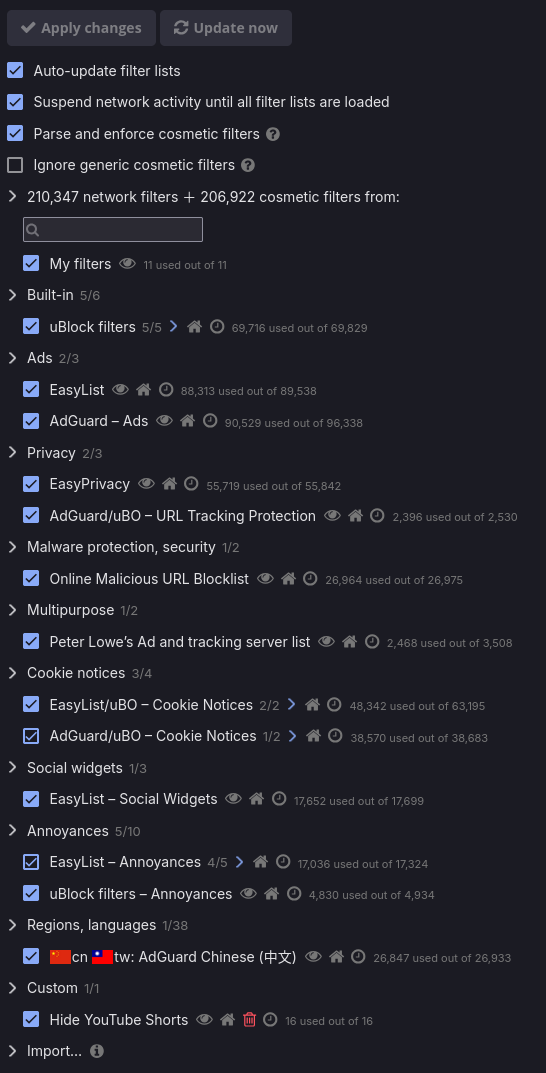
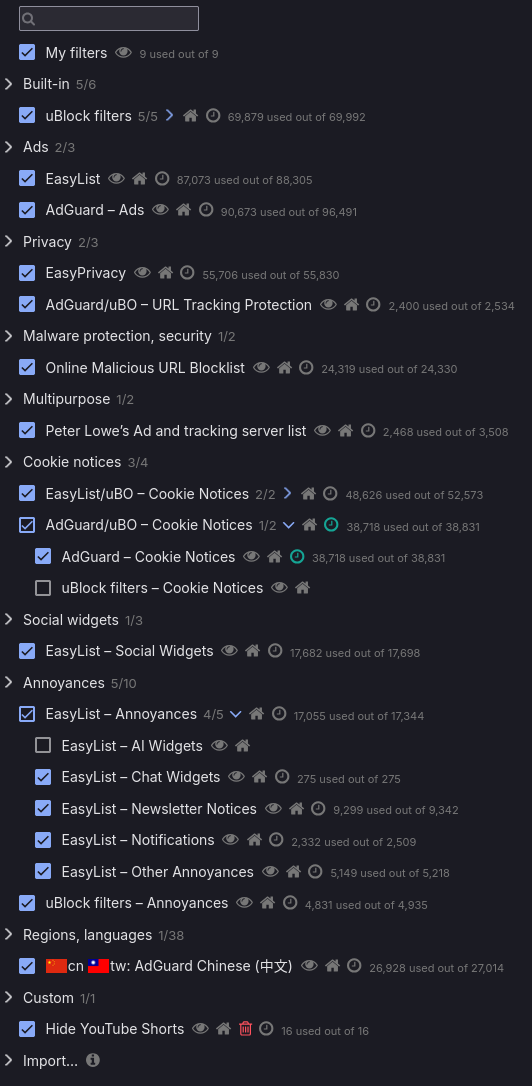
update ublock origin

diff --git a/zen/extensions.md b/zen/extensions.md
@@ -4,4 +4,5 @@
 2. uBlock Origin
 3. RYS — Remove YouTube Suggestions
 4. SponsorBlock - Skip Sponsorships on YouTube
+5. Stylus
 